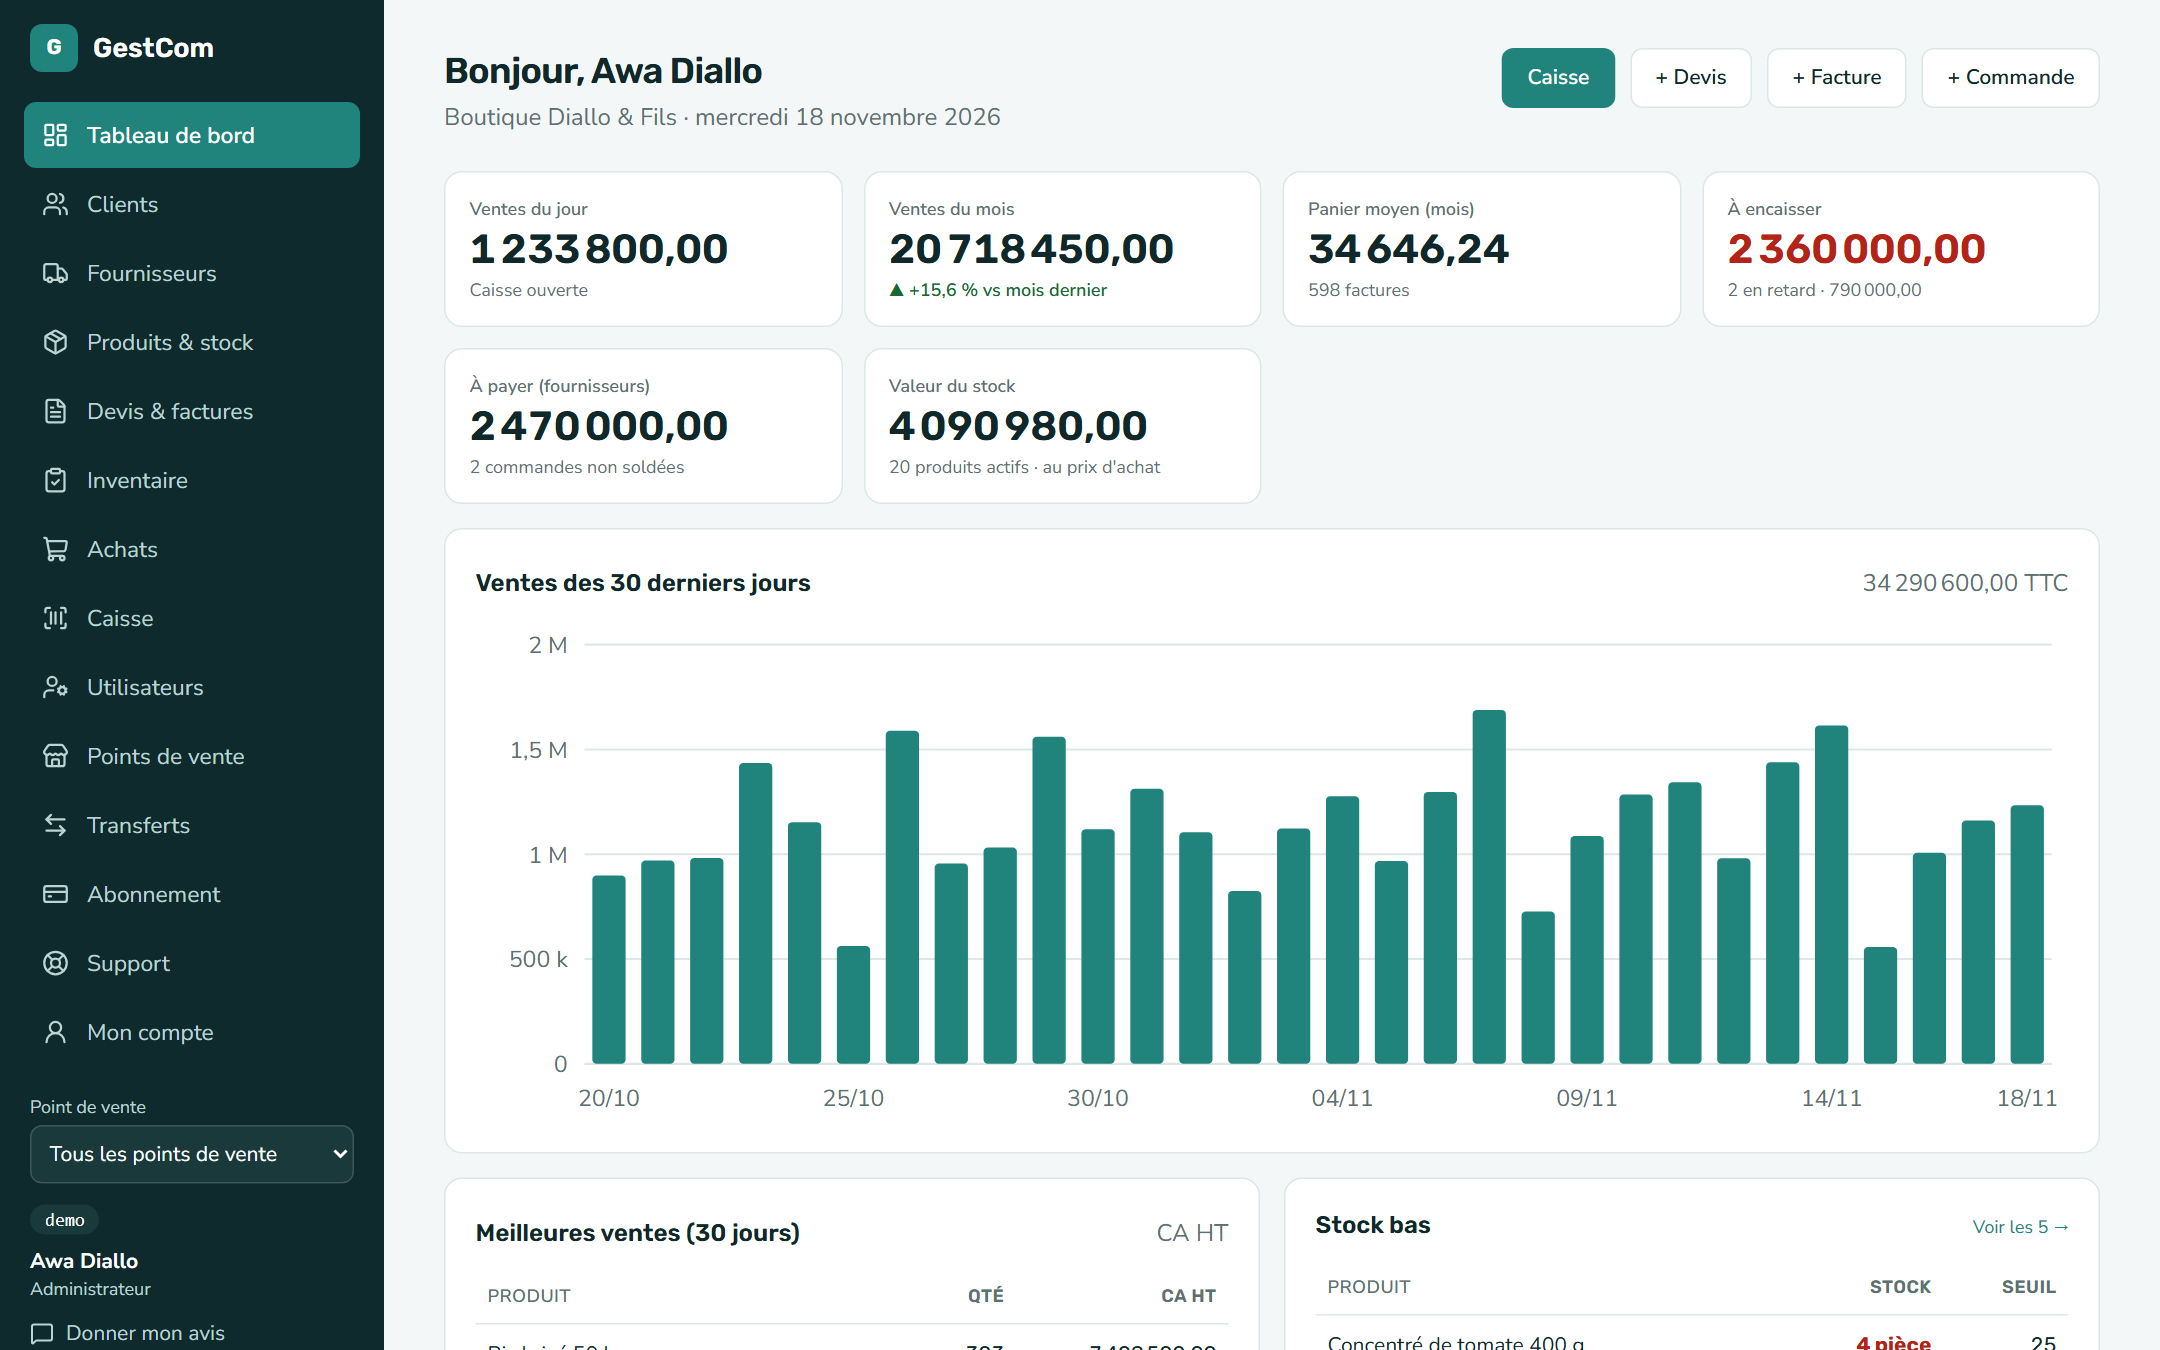
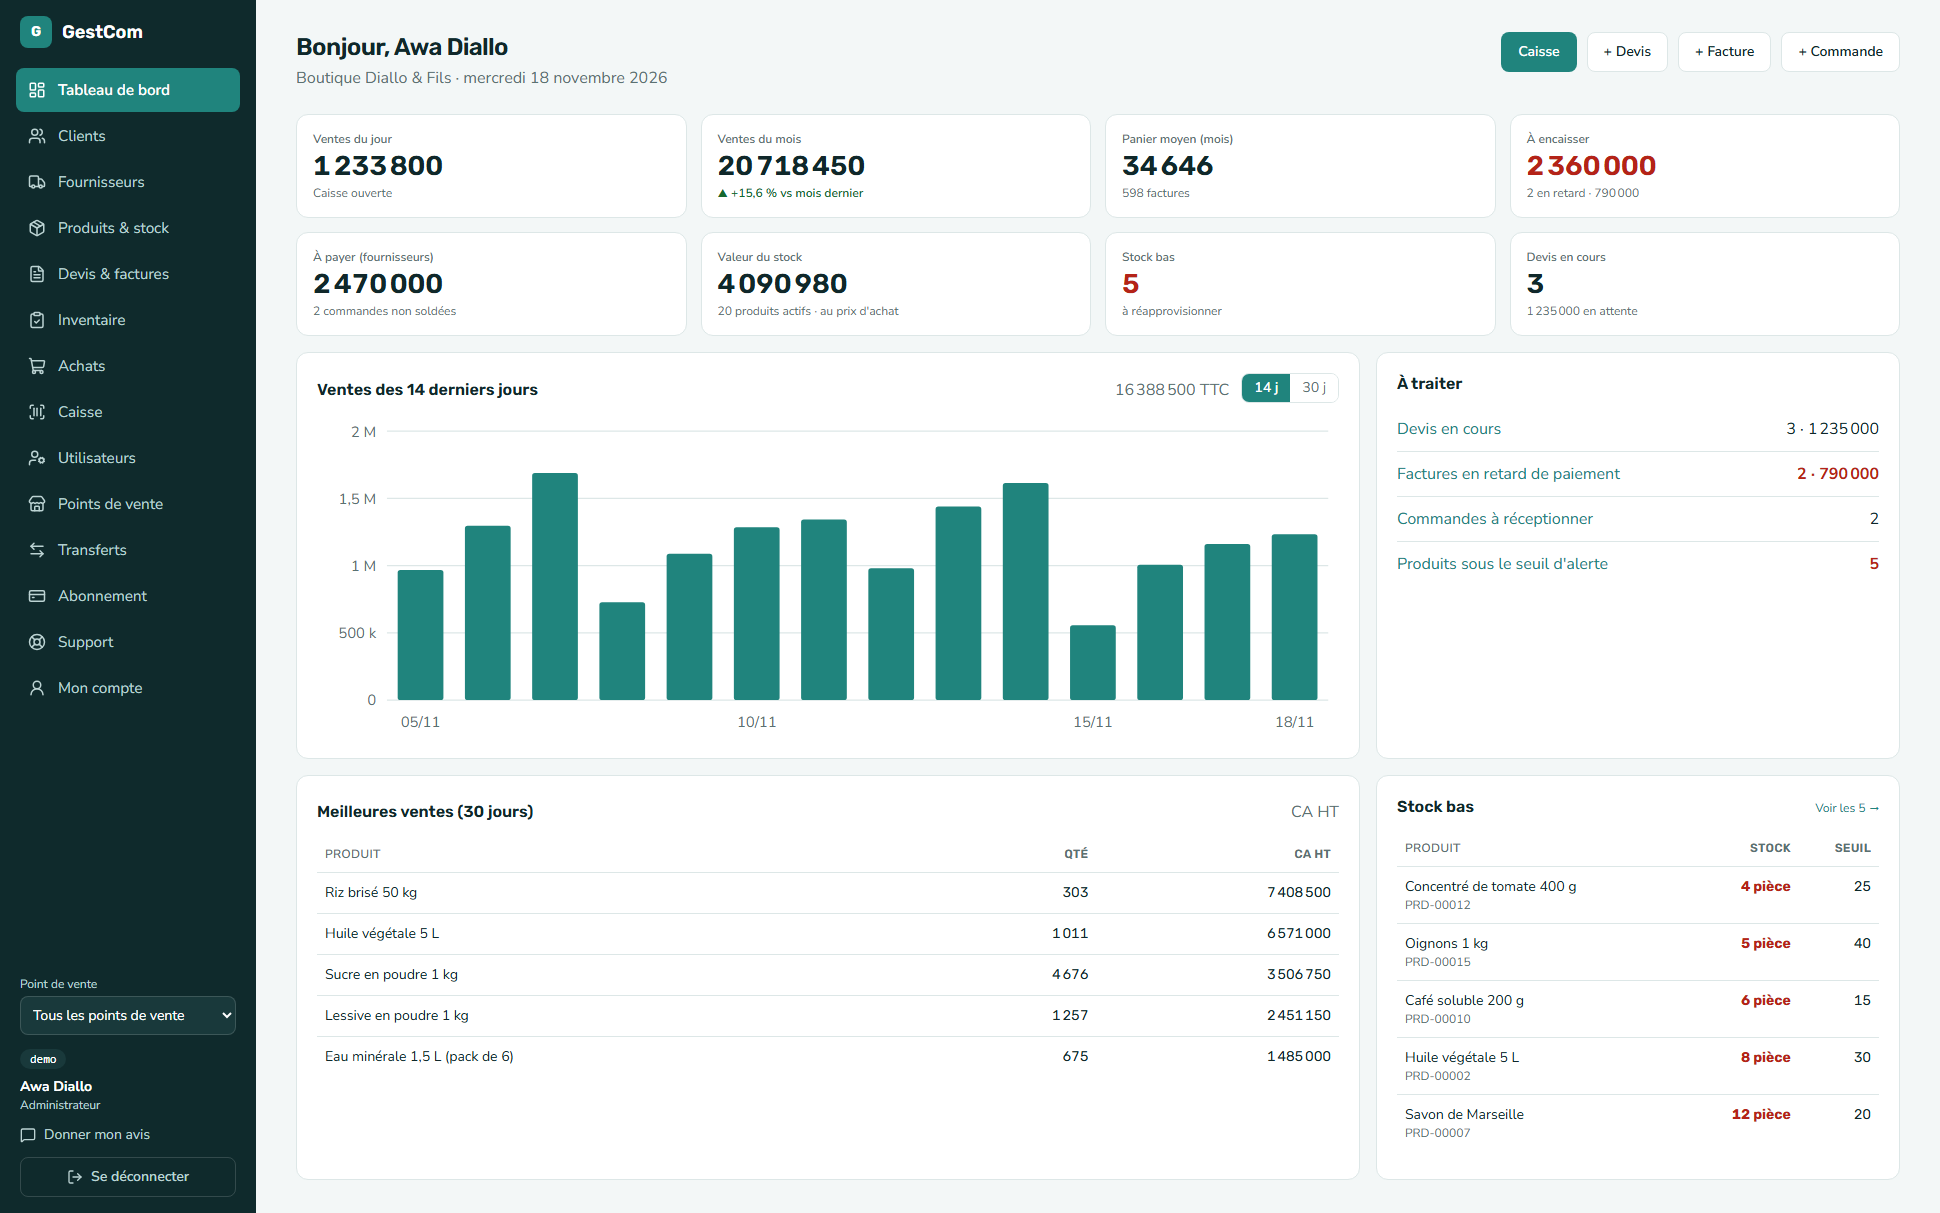
Landing : hero avec maquette appareils, atouts alignés et message responsive
- Maquette ordinateur + téléphone avec captures du tableau de bord de démonstration
- 4 atouts sur une ligne (2x2 sur mobile), phrase multi-écrans, légende sous la maquette
- Tableau de bord : 8 KPI, montants sans décimales, disposition 3 colonnes
- Ajustements Tailwind des KPI

diff --git a/frontend/src/pages/Dashboard.jsx b/frontend/src/pages/Dashboard.jsx
@@ -3,7 +3,7 @@ import { Link } from 'react-router-dom'
 import api, { parseError } from '../api'
 import { useAuth } from '../auth'
 import SalesChart from '../components/SalesChart'
-import { fmtMoney, fmtQty } from '../lib/format'
+import { fmtMoney0, fmtQty } from '../lib/format'
 
 function Kpi({ label, value, sub, tone, to }) {
   const body = (
@@ -26,6 +26,7 @@ export default function Dashboard() {
   const { user, company, can } = useAuth()
   const [data, setData] = useState(null)
   const [error, setError] = useState(null)
+  const [days, setDays] = useState(14) // période du graphique : 14 ou 30 jours
 
   useEffect(() => {
     api.get('/dashboard').then(({ data: d }) => setData(d)).catch((err) => setError(parseError(err).message))
@@ -55,33 +56,48 @@ export default function Dashboard() {
       {d && (
         <>
           <section className="kpis" aria-label="Indicateurs clés">
-            <Kpi label="Ventes du jour" value={fmtMoney(d.sales.today)} to="/ventes?type=invoice"
+            <Kpi label="Ventes du jour" value={fmtMoney0(d.sales.today)} to="/ventes?type=invoice"
               sub={d.register_open ? 'Caisse ouverte' : 'Caisse fermée'} />
-            <Kpi label="Ventes du mois" value={fmtMoney(d.sales.month)} to="/ventes?type=invoice"
+            <Kpi label="Ventes du mois" value={fmtMoney0(d.sales.month)} to="/ventes?type=invoice"
               sub={<Delta pct={d.sales.month_change_percent} />} />
-            <Kpi label="Panier moyen (mois)" value={fmtMoney(d.sales.average_basket)}
+            <Kpi label="Panier moyen (mois)" value={fmtMoney0(d.sales.average_basket)}
               sub={`${d.sales.invoices_month} facture${d.sales.invoices_month > 1 ? 's' : ''}`} />
-            <Kpi label="À encaisser" value={fmtMoney(d.receivables.total)} to="/ventes?type=invoice"
+            <Kpi label="À encaisser" value={fmtMoney0(d.receivables.total)} to="/ventes?type=invoice"
               tone={d.receivables.overdue_count > 0 ? 'warn' : undefined}
               sub={d.receivables.overdue_count > 0
-                ? `${d.receivables.overdue_count} en retard · ${fmtMoney(d.receivables.overdue_amount)}`
+                ? `${d.receivables.overdue_count} en retard · ${fmtMoney0(d.receivables.overdue_amount)}`
                 : 'Aucun retard'} />
-            <Kpi label="À payer (fournisseurs)" value={fmtMoney(d.payables.total)} to="/achats"
+            <Kpi label="À payer (fournisseurs)" value={fmtMoney0(d.payables.total)} to="/achats"
               sub={`${d.payables.count} commande${d.payables.count > 1 ? 's' : ''} non soldée${d.payables.count > 1 ? 's' : ''}`} />
-            <Kpi label="Valeur du stock" value={fmtMoney(d.stock.value)} to="/produits"
+            <Kpi label="Valeur du stock" value={fmtMoney0(d.stock.value)} to="/produits"
               sub={`${d.stock.products} produit${d.stock.products > 1 ? 's' : ''} actif${d.stock.products > 1 ? 's' : ''} · au prix d'achat`} />
+            <Kpi label="Stock bas" value={String(d.stock.low_count)} to="/produits?low=1"
+              tone={d.stock.low_count > 0 ? 'warn' : undefined}
+              sub={d.stock.low_count > 0 ? 'à réapprovisionner' : 'Aucun produit sous le seuil'} />
+            <Kpi label="Devis en cours" value={String(d.pending.open_quotes)} to="/ventes?type=quote"
+              sub={d.pending.open_quotes > 0 ? `${fmtMoney0(d.pending.open_quotes_total)} en attente` : 'Aucun devis en attente'} />
           </section>
 
-          <section className="panel">
+          {/* À partir de xl : grille de 3 colonnes (graphique + « à traiter », puis meilleures ventes + stock bas). */}
+          <div className="grid gap-4 xl:grid-cols-3 [&_.panel]:mb-0">
+          <section className="panel xl:order-1 xl:col-span-2">
             <div className="panel-head">
-              <h2>Ventes des 30 derniers jours</h2>
-              <span className="muted">{fmtMoney(d.series.reduce((s, x) => s + x.total, 0))} TTC</span>
+              <h2>Ventes des {days} derniers jours</h2>
+              <div className="flex items-center gap-3">
+                <span className="muted hidden sm:inline">{fmtMoney0(d.series.slice(-days).reduce((s, x) => s + x.total, 0))} TTC</span>
+                <div role="group" aria-label="Période du graphique" className="flex overflow-hidden rounded-lg border border-line text-sm">
+                  {[14, 30].map((n) => (
+                    <button key={n} type="button" aria-pressed={days === n} onClick={() => setDays(n)}
+                      className={days === n ? 'whitespace-nowrap bg-accent px-3 py-1 font-semibold text-on-accent' : 'whitespace-nowrap bg-surface px-3 py-1 text-muted hover:bg-accent-soft'}>{n} j</button>
+                  ))}
+                </div>
+              </div>
             </div>
-            <SalesChart series={d.series} />
+            <SalesChart series={d.series.slice(-days)} />
           </section>
 
-          <div className="dash-cols">
-            <section className="panel">
+          <div className="dash-cols xl:contents">
+            <section className="panel xl:order-3 xl:col-span-2">
               <div className="panel-head"><h2>Meilleures ventes (30 jours)</h2><span className="muted">CA HT</span></div>
               {d.top_products.length === 0 ? <p className="muted">Pas encore de vente.</p> : (
                 <table className="lines view">
@@ -89,7 +105,7 @@ export default function Dashboard() {
                   <tbody>
                     {d.top_products.map((p) => (
                       <tr key={`${p.product_id}-${p.name}`}>
-                        <td>{p.name}</td><td className="num">{fmtQty(p.quantity)}</td><td className="num">{fmtMoney(p.revenue)}</td>
+                        <td>{p.name}</td><td className="num">{fmtQty(p.quantity)}</td><td className="num">{fmtMoney0(p.revenue)}</td>
                       </tr>
                     ))}
                   </tbody>
@@ -97,7 +113,7 @@ export default function Dashboard() {
               )}
             </section>
 
-            <section className="panel">
+            <section className="panel xl:order-4">
               <div className="panel-head">
                 <h2>Stock bas</h2>
                 {d.stock.low_count > 0 && <Link to="/produits?low=1" className="small">Voir les {d.stock.low_count} →</Link>}
@@ -119,17 +135,17 @@ export default function Dashboard() {
             </section>
           </div>
 
-          <section className="panel">
+          <section className="panel xl:order-2">
             <h2>À traiter</h2>
             <ul className="todo">
               <li>
                 <Link to="/ventes?type=quote">Devis en cours</Link>
-                <span>{d.pending.open_quotes > 0 ? `${d.pending.open_quotes} · ${fmtMoney(d.pending.open_quotes_total)}` : 'Aucun'}</span>
+                <span>{d.pending.open_quotes > 0 ? `${d.pending.open_quotes} · ${fmtMoney0(d.pending.open_quotes_total)}` : 'Aucun'}</span>
               </li>
               <li>
                 <Link to="/ventes?type=invoice">Factures en retard de paiement</Link>
                 <span className={d.receivables.overdue_count > 0 ? 'stock-low' : ''}>
-                  {d.receivables.overdue_count > 0 ? `${d.receivables.overdue_count} · ${fmtMoney(d.receivables.overdue_amount)}` : 'Aucune'}
+                  {d.receivables.overdue_count > 0 ? `${d.receivables.overdue_count} · ${fmtMoney0(d.receivables.overdue_amount)}` : 'Aucune'}
                 </span>
               </li>
               <li>
@@ -146,6 +162,7 @@ export default function Dashboard() {
               </li>
             </ul>
           </section>
+          </div>
         </>
       )}
     </>

diff --git a/frontend/src/pages/Landing.jsx b/frontend/src/pages/Landing.jsx
@@ -4,7 +4,7 @@ import api, { storage } from '../api'
 import { useAuth } from '../auth'
 import {
   AccountIcon, ArrowRightIcon, BranchesIcon, Brand, ChevronDownIcon, CustomersIcon, DashboardIcon, FastIcon, HeadsetIcon, InvoicesIcon,
-  PhoneIcon, PlayIcon, PosIcon, ProductsIcon, PurchasesIcon, SearchIcon, StarIcon, TrustIcon, UsersIcon,
+  DevicesIcon, PhoneIcon, PlayIcon, PosIcon, ProductsIcon, PurchasesIcon, SearchIcon, StarIcon, TrustIcon, UsersIcon,
 } from '../components/ui'
 import Showcase from '../components/landing/Showcase'
 import { cn } from '../lib/cn'
@@ -203,25 +203,34 @@ export default function Landing() {
             </span>
             <h1 className="mt-5 text-4xl leading-[1.1] text-white sm:text-5xl">Donnez une nouvelle dimension à la gestion de votre commerce.</h1>
             <p className="mt-5 max-w-xl text-lg text-brand-100">
-              Avec GestCom, profitez d’une solution complète qui réunit clients, stock, ventes, achats et caisse. Maîtrisez vos opérations et pilotez votre activité avec une vision claire.
+              Avec GestCom, profitez d’une solution complète qui réunit clients, stock, ventes, achats et caisse. Maîtrisez vos opérations et pilotez votre activité avec une vision claire. Utilisable sur ordinateur, tablette et téléphone, sans rien installer.
             </p>
             <div className="mt-8 flex flex-wrap gap-3">
               <Link to={startLink} className={btnWhite}>{open ? 'Créer mon espace gratuitement' : 'Demander un accès'} <ArrowRightIcon className="size-[18px]" aria-hidden="true" /></Link>
               <a href="#apercu" onClick={go('apercu')} className={btnLine}><PlayIcon className="size-[18px]" aria-hidden="true" /> Découvrir la plateforme</a>
             </div>
-            <ul className="mt-9 flex list-none flex-wrap gap-x-8 gap-y-4 p-0 text-sm">
-              {[[TrustIcon, `Essai gratuit pendant ${trial} jours`], [FastIcon, 'Sans carte bancaire'], [HeadsetIcon, 'Assistance réactive']].map(([Icon, text]) => (
-                <li key={text} className="flex max-w-[11rem] items-center gap-2.5 leading-snug"><Icon className="size-6 shrink-0 text-brand-300" aria-hidden="true" />{text}</li>
+            <ul className="mt-9 grid list-none grid-cols-2 gap-x-5 gap-y-5 p-0 text-sm sm:grid-cols-4">
+              {[[TrustIcon, `Essai gratuit ${trial} jours`], [FastIcon, 'Sans carte bancaire'], [HeadsetIcon, 'Assistance réactive'], [DevicesIcon, 'Ordinateur, tablette, téléphone']].map(([Icon, text]) => (
+                <li key={text} className="flex flex-col items-start gap-2 leading-snug">
+                  <Icon className="size-7 shrink-0 text-brand-300" aria-hidden="true" />
+                  <span>{text}</span>
+                </li>
               ))}
             </ul>
           </div>
 
-          {/* Capture réelle de l'application avec des données de démonstration (entreprise fictive) */}
-          <div className="mx-auto w-full max-w-xl motion-safe:animate-[gc-fade-up_.8s_.15s_ease_both] lg:max-w-none">
-            <div className="overflow-hidden rounded-t-2xl border-[8px] border-brand-950 bg-bg shadow-2xl">
-              <img src="/dashboard-demo.png" width="2160" height="1350" alt="Aperçu du tableau de bord GestCom, avec des données fictives" className="block h-auto w-full" />
-            </div>
-            <div className="mx-[-4%] h-3.5 rounded-b-3xl bg-brand-950/70" />
+          <div className="grid justify-items-center gap-3">
+          {/* Maquette d'appareils : les captures réelles (données fictives) sont placées DERRIÈRE l'image, dont les écrans sont transparents. */}
+          <div className="relative mx-auto aspect-square w-full max-w-xl motion-safe:animate-[gc-fade-up_.8s_.15s_ease_both] lg:max-w-none lg:scale-[1.2]">
+            <img src="/dashboard-demo.png" width="1940" height="1213" alt="Tableau de bord GestCom sur ordinateur, avec des données fictives" className="absolute object-cover object-top-left"
+              style={{ left: '16%', top: '21.2%', width: '67.6%', height: '42.2%' }} />
+            <img src="/dashboard-demo-mobile.png" width="1170" height="2505" alt="Tableau de bord GestCom sur téléphone, avec des données fictives" className="absolute object-cover object-top"
+              style={{ left: '77.8%', top: '47.8%', width: '15.6%', height: '33.4%' }} />
+            <img src="/device-mockup.png" width="500" height="500" alt="" aria-hidden="true" className="pointer-events-none absolute inset-0 size-full" />
+          </div>
+          <p className="m-0 inline-flex items-center gap-2 rounded-full bg-white/10 px-4 py-1.5 text-sm text-white lg:-mt-6">
+            <DevicesIcon className="size-4 text-brand-300" aria-hidden="true" /> Une seule application, tous vos écrans
+          </p>
           </div>
         </div>
       </section>

diff --git a/frontend/src/tailwind.css b/frontend/src/tailwind.css
@@ -131,11 +131,12 @@
   .forbidden h1 { @apply mb-2; }
 
   /* ---------- Tableau de bord ---------- */
-  .kpis { @apply mb-4 grid grid-cols-[repeat(auto-fit,minmax(210px,1fr))] gap-3.5; }
-  .kpi { @apply flex flex-col gap-0.5 rounded-xl border border-line bg-surface px-4 py-4 text-inherit no-underline transition-colors duration-150; }
+  /* 8 indicateurs : 2 colonnes sur mobile, 4 à partir de lg (deux lignes de 4). */
+  .kpis { @apply mb-4 grid grid-cols-2 gap-3.5 lg:grid-cols-4; }
+  .kpi { @apply flex min-w-0 flex-col gap-0.5 rounded-xl border border-line bg-surface px-4 py-4 text-inherit no-underline transition-colors duration-150; }
   a.kpi { @apply hover:border-accent; }
   .kpi-label { @apply text-xs font-semibold text-muted; }
-  .kpi-value { @apply font-display text-[1.7rem] font-semibold leading-tight tabular-nums; }
+  .kpi-value { @apply break-words font-display text-xl font-semibold leading-tight tabular-nums sm:text-[1.7rem]; }
   .kpi-sub { @apply text-xs text-muted; }
   .tone-warn { @apply text-danger; }
   .delta-up { @apply font-semibold text-ok; }

diff --git a/frontend/src/components/SalesChart.jsx b/frontend/src/components/SalesChart.jsx
@@ -24,11 +24,11 @@ export default function SalesChart({ series }) {
   const total = series.reduce((s, d) => s + d.total, 0)
   const ticks = [0, 0.25, 0.5, 0.75, 1].map((t) => t * max)
 
-  if (total === 0) return <p className="muted chart-empty">Aucune vente sur les 30 derniers jours.</p>
+  if (total === 0) return <p className="muted chart-empty">Aucune vente sur cette période.</p>
 
   return (
     <svg viewBox={`0 0 ${W} ${H}`} className="chart" role="img"
-      aria-label={`Ventes quotidiennes sur 30 jours, total ${fmtMoney(total)}`}>
+      aria-label={`Ventes quotidiennes sur ${series.length} jours, total ${fmtMoney(total)}`}>
       {ticks.map((t) => (
         <g key={t}>
           <line x1={m.l} x2={W - m.r} y1={y(t)} y2={y(t)} className="chart-grid" />

diff --git a/frontend/src/lib/format.js b/frontend/src/lib/format.js
@@ -2,6 +2,10 @@ const qtyFmt = new Intl.NumberFormat('fr-FR', { maximumFractionDigits: 3 })
 const moneyFmt = new Intl.NumberFormat('fr-FR', { minimumFractionDigits: 2, maximumFractionDigits: 2 })
 const dateFmt = new Intl.DateTimeFormat('fr-FR', { dateStyle: 'short', timeStyle: 'short' })
 
+const money0Fmt = new Intl.NumberFormat('fr-FR', { maximumFractionDigits: 0 })
+
 export const fmtQty = (v) => qtyFmt.format(Number(v ?? 0))
+/** Montant sans décimales (tableau de bord : les francs CFA n'ont pas de centimes). */
+export const fmtMoney0 = (v) => money0Fmt.format(Number(v ?? 0))
 export const fmtMoney = (v) => moneyFmt.format(Number(v ?? 0))
 export const fmtDate = (v) => (v ? dateFmt.format(new Date(v)) : '')

diff --git a/frontend/src/components/ui/icons.js b/frontend/src/components/ui/icons.js
@@ -58,6 +58,7 @@ export {
   Barcode as BarcodeIcon,
   Sparkles as GenerateIcon,
   ClipboardCheck as InventoryIcon,
+  MonitorSmartphone as DevicesIcon,
   Phone as PhoneIcon,
   Mail as MailIcon,
 } from 'lucide-react'
